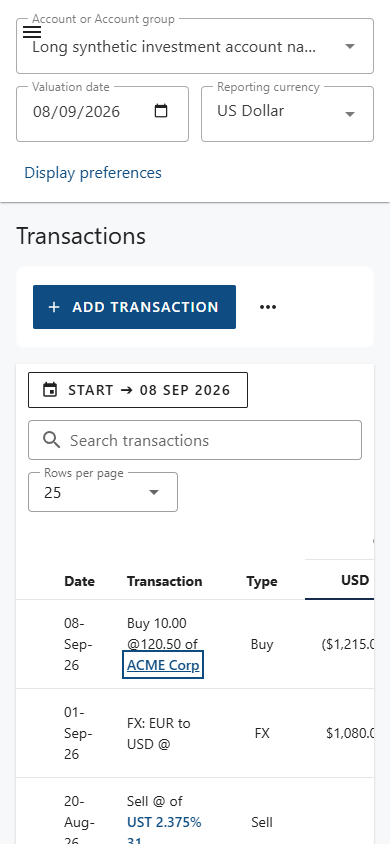
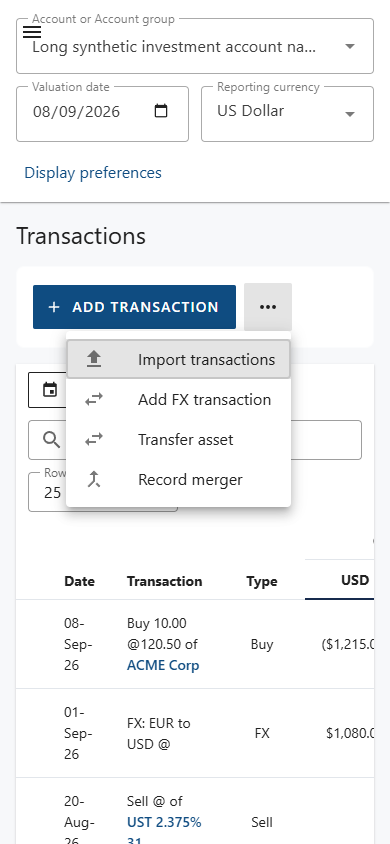
docs(presentation-b): review-round ledger section, gates on the correction head, retaken captures
- Review round 1 section: all four findings with their RED-first
  regressions, including the two root causes found while driving them (rAF
  never fires in occluded windows — the fit is now microtask-based; the
  fit's own measuring toggle fed the ResizeObserver and refit forever).
- Review-head gate table: unit 1087/1087, types x3/api/lint/build 0, full
  18x4 matrix 0, all 18 focused cases 0 with no reruns, final-qa-d8 clean
  rerun (90+12+37+3, 0 failures, dashboard 485,131 gzip), delivery 0,
  backend 1399/10. The one non-zero was the d8 process dying on the
  recorded daemon ECONNRESET class, recorded as such.
- Retaken presentation-b captures (menu-open restore semantics changed).

Changed region(s): [[0.1538, 0.3081, 0.7692, 0.6161], [0.3077, 0.7701, 0.5231, 0.8009]]

diff --git a/docs/design/release-validation-presentation-b.md b/docs/design/release-validation-presentation-b.md
@@ -1,8 +1,8 @@
 # Real-data validation corrections — phase B evidence ledger (presentation)
 
-Date: 12 October 2026. Branch `codex/release-validation-presentation-b` (dedicated worktree `D:\Developing\Portfolio-management-relval-pres-b`), base `20cc3c81` (`origin/codex/frontend-modernization`: PR #62/phase A merged). Scope: **phase B Tasks 4–5 implemented** (navigation/header geometry; shared tables and responsive actions). Phase A's functional fixes are preserved untouched — the context/date ownership, year options, zero-versus-absent handling and import lifecycle guards all keep their regressions green (full unit suite and the `dates`/`context`/`imports-d6`/`imports-prices` browser cases pass on this branch). No backend file touched; no financial calculation, string or precision changed.
+Date: 12 October 2026 (review round 1 incorporated 13 October). Branch `codex/release-validation-presentation-b` (dedicated worktree `D:\Developing\Portfolio-management-relval-pres-b`), base `20cc3c81` (`origin/codex/frontend-modernization`: PR #62/phase A merged). Scope: **phase B Tasks 4–5 implemented** (navigation/header geometry; shared tables and responsive actions) **including the full review round**. Phase A's functional fixes are preserved untouched — the context/date ownership, year options, zero-versus-absent handling and import lifecycle guards all keep their regressions green (full unit suite and the `dates`/`context`/`imports-d6`/`imports-prices` browser cases pass on this branch). No backend file touched; no financial calculation, string or precision changed.
 
-Implementation commit: `8d569dcc` (single task-sized commit; every behavioral change regression-pinned RED-first as listed below). Gates on the committed head are in [Gates](#gates-actual-exit-codes-committed-head-8d569dcc).
+Commits: `8d569dcc` (Tasks 4–5), `bd740078` (ledger/tracker/captures), `d0b78bec` (review round). Gates on the committed review head are in [Gates](#gates-actual-exit-codes).
 
 ## Task 4 — navigation and header geometry
 
@@ -56,11 +56,25 @@ Implementation commit: `8d569dcc` (single task-sized commit; every behavioral ch
 - `Navigation.spec.ts` desktop full-drawer assertions → compact rail semantics.
 - `d5.mjs` breakdown-year pick: the probe re-picked the already-selected year and relied on the OLD integer wire (string '2026' vs number 2026) to coerce a "change"; on the phase A string wire a same-value pick correctly fires no request. The probe now picks the genuinely different 2025 (pre-existing failure on the pristine base `20cc3c81`, reproduced there before fixing — phase A never ran the d5 case).
 
+## Review round 1 (draft PR #63) — all four findings corrected RED-first (`d0b78bec`)
+
+1. **WorkspaceActions focus preservation.** The focused action's identity is captured BEFORE any tier change (menu items live in a teleported overlay, so containment alone is not enough — a candidate id that belongs to this component counts as inside; once a button unmounts, `activeElement` is already lost to `<body>`). After the fit lands, focus returns to the same action where it still exists (either tier), otherwise to the More actions activator, otherwise — when widening removed the activator entirely — to the last direct action. Rendered regressions in `presentation-b`: desktop→narrow restores focus to the activator and never drops to `<body>`; narrow→desktop WHILE THE MENU IS OPEN with a menu item focused lands focus on that exact action, now direct; a resize whose fit keeps the focused action direct does not steal it. Unit regressions: `WorkspaceActions.fit.spec.ts` (activator follows the disappeared slot; no steal when the action survives).
+2. **Residual-overflow convergence.** The old loop restored all candidates and recomputed the same estimate each iteration — it never shed an action. The verification pass now reduces the RETAINED count by one per correction and re-checks the real row, bounded by the candidate count. A usable layout when even the primary action and the activator cannot share one line is now DEFINED: the row wraps (both controls stay visible; measured from the real `fixedWidth + gap + menuWidth > availableWidth`), and the wrap survives later refits whose "no overflow" is achieved BY the wrap (the degenerate flag is computed per fit and guards the reset). Regressions: an over-estimate leaving genuine overflow converges to the truly fitting count (estimate says 4, real row fits 2 → 2); the degenerate case wraps and releases; rendered probes at 260px assert wrap + visibility + no horizontal overflow + release on widen.
+3. **Unmount-safe asynchronous fitting.** Every fit takes a generation token and re-checks ownership (`disposed`, token, element availability) after EVERY await; unmount invalidates immediately, so a stale continuation stops at the next check and cannot touch a replacement instance. A width change observed while a fit is running queues a refit that runs when the active one finishes (not swallowed, not interleaved). Two further root causes surfaced and were fixed while driving these regressions:
+   - **rAF does not fire in occluded windows** — the fit path was rAF-based (`nextFrame` + rAF-coalesced scheduling), so a backgrounded/occluded tab stalled mid-measurement with the candidates unmounted and the menu closed until a frame happened to be produced. This was the source of the intermittent `dialogs`/`d5` failures (reproduced live: `requestAnimationFrame` counter static at 0 with the page `visible` but the window occluded). The fit is now entirely microtask-based (Vue `nextTick` flushes the DOM; the width reads force layout synchronously); queueing coalesces on the microtask queue.
+   - **The fit's own measuring toggle fed the ResizeObserver** (the activator joins the row for the measure pass, jittering the strip box) — honoring those self-induced events refit forever. The observer now filters same-width events (<1px), and a resize arriving while the USER'S overflow menu is open closes the menu via its model (a refit would reshuffle its items mid-interaction; programmatic model changes emit no `update:model-value`, so the fit is chained on `nextTick`) and runs right after. Regressions: unmount during measurement (no unhandled rejection, replacement untouched, replacement fits normally), mid-fit resize at a new width triggers the refit (mount fit + both events = three estimator calls), plus the previously green convergence/wrap/focus cases.
+   - Measuring passes now stage the candidates with `aria-hidden` on the row (layout boxes kept for their widths, excluded from the accessibility tree), so a snapshot can never catch a candidate that is about to move tiers; the `dialogs` click helper retries a tier move like it already retries a covered click.
+4. **Bare-shell allowance restricted.** `assertLayoutGeometry` takes an explicit `allowBareShell` (only `/profile*` and `/database*` routes pass it, only honored at ≥960px); anything else missing both header and context strip FAILS. Negative regression `assertBareShellGuard` (in the `layout` case, every viewport): removes the dashboard's `.v-app-bar` AND `.workspace-context` from the DOM and requires the probe to fail citing the restriction.
+
+The four finding regressions were observed RED against the pre-fix component (6/6 failing) before implementation.
+
 ## Not reproduced (recorded honestly)
 
 - Arrow-border defect: not reproducible at DPR 1/2 on this base (pixel-decoded both scales — complete borders, rounded corners only); the adjacent label-clip and height defects were real and fixed.
 
-## Gates (actual exit codes, committed head `8d569dcc`)
+## Gates (actual exit codes)
+
+Implementation head `8d569dcc` (round 1, historical):
 
 | Gate | Result | Exit |
 |---|---|---|
@@ -76,7 +90,22 @@ Implementation commit: `8d569dcc` (single task-sized commit; every behavioral ch
 | browser `delivery` | PASS | 0 |
 | backend `uv run python -m pytest` (test settings) | **1399 passed / 10 skipped**, coverage 83.57% | 0 |
 
-Captures (inspected, synthetic fixtures only): `docs/design/assets/presentation-b/` — `rail-expanded-hover.png`, `rail-collapsed-desktop.png`, `positions-desktop-rules.png`, `transactions-desktop-actions.png`, `transactions-390-menu.png`, `transactions-390-mobile.png`.
+Review head `d0b78bec` (round 1 corrections):
+
+| Gate | Result | Exit |
+|---|---|---|
+| `npx vitest run --no-file-parallelism` | 109 files / **1087 passed** | 0 |
+| `npm run type-check` / `:reliability` / `:charts` | clean | 0 / 0 / 0 |
+| `npm run api:types:check` | match | 0 |
+| `npm run lint` | 0 errors / 8 baseline warnings | 0 |
+| `npm run build` | ok | 0 |
+| FULL browser route matrix (18 routes × 4 viewports, zero mismatches) | `routeFailures: []`, `fixtureMismatches: []` | 0 |
+| ALL 18 focused browser cases (incl. the extended `presentation-b` and the new bare-shell guard in `layout`) | **all PASS sequentially, no reruns needed** (the rAF fix removed the stall class that previously forced clean reruns of `dialogs`/`d5`/`charts-c5`) | 0 |
+| browser `final-qa-d8` (unflagged default-on acceptance, committed head) | first attempt died on the recorded agent-browser daemon ECONNRESET mid-flow (harness process crash, not an assertion); clean rerun **PASS — 90 route probes + 12 long-name + 37 workflows + 3 rollback spot-checks, 0 failures**; dashboard 485,131 gzip < 535,000 target | 0 |
+| browser `delivery` | PASS | 0 |
+| backend `uv run python -m pytest` (test settings) | **1399 passed / 10 skipped**, coverage 83.57% | 0 |
+
+Captures (inspected, synthetic fixtures only): `docs/design/assets/presentation-b/` — `rail-expanded-hover.png`, `rail-collapsed-desktop.png`, `positions-desktop-rules.png`, `transactions-desktop-actions.png`, `transactions-390-menu.png`, `transactions-390-mobile.png` (retaken on the review head; `transactions-390-menu.png` now shows the menu open with an item focused across the desktop-restore transition).
 
 ## Boundaries
 
